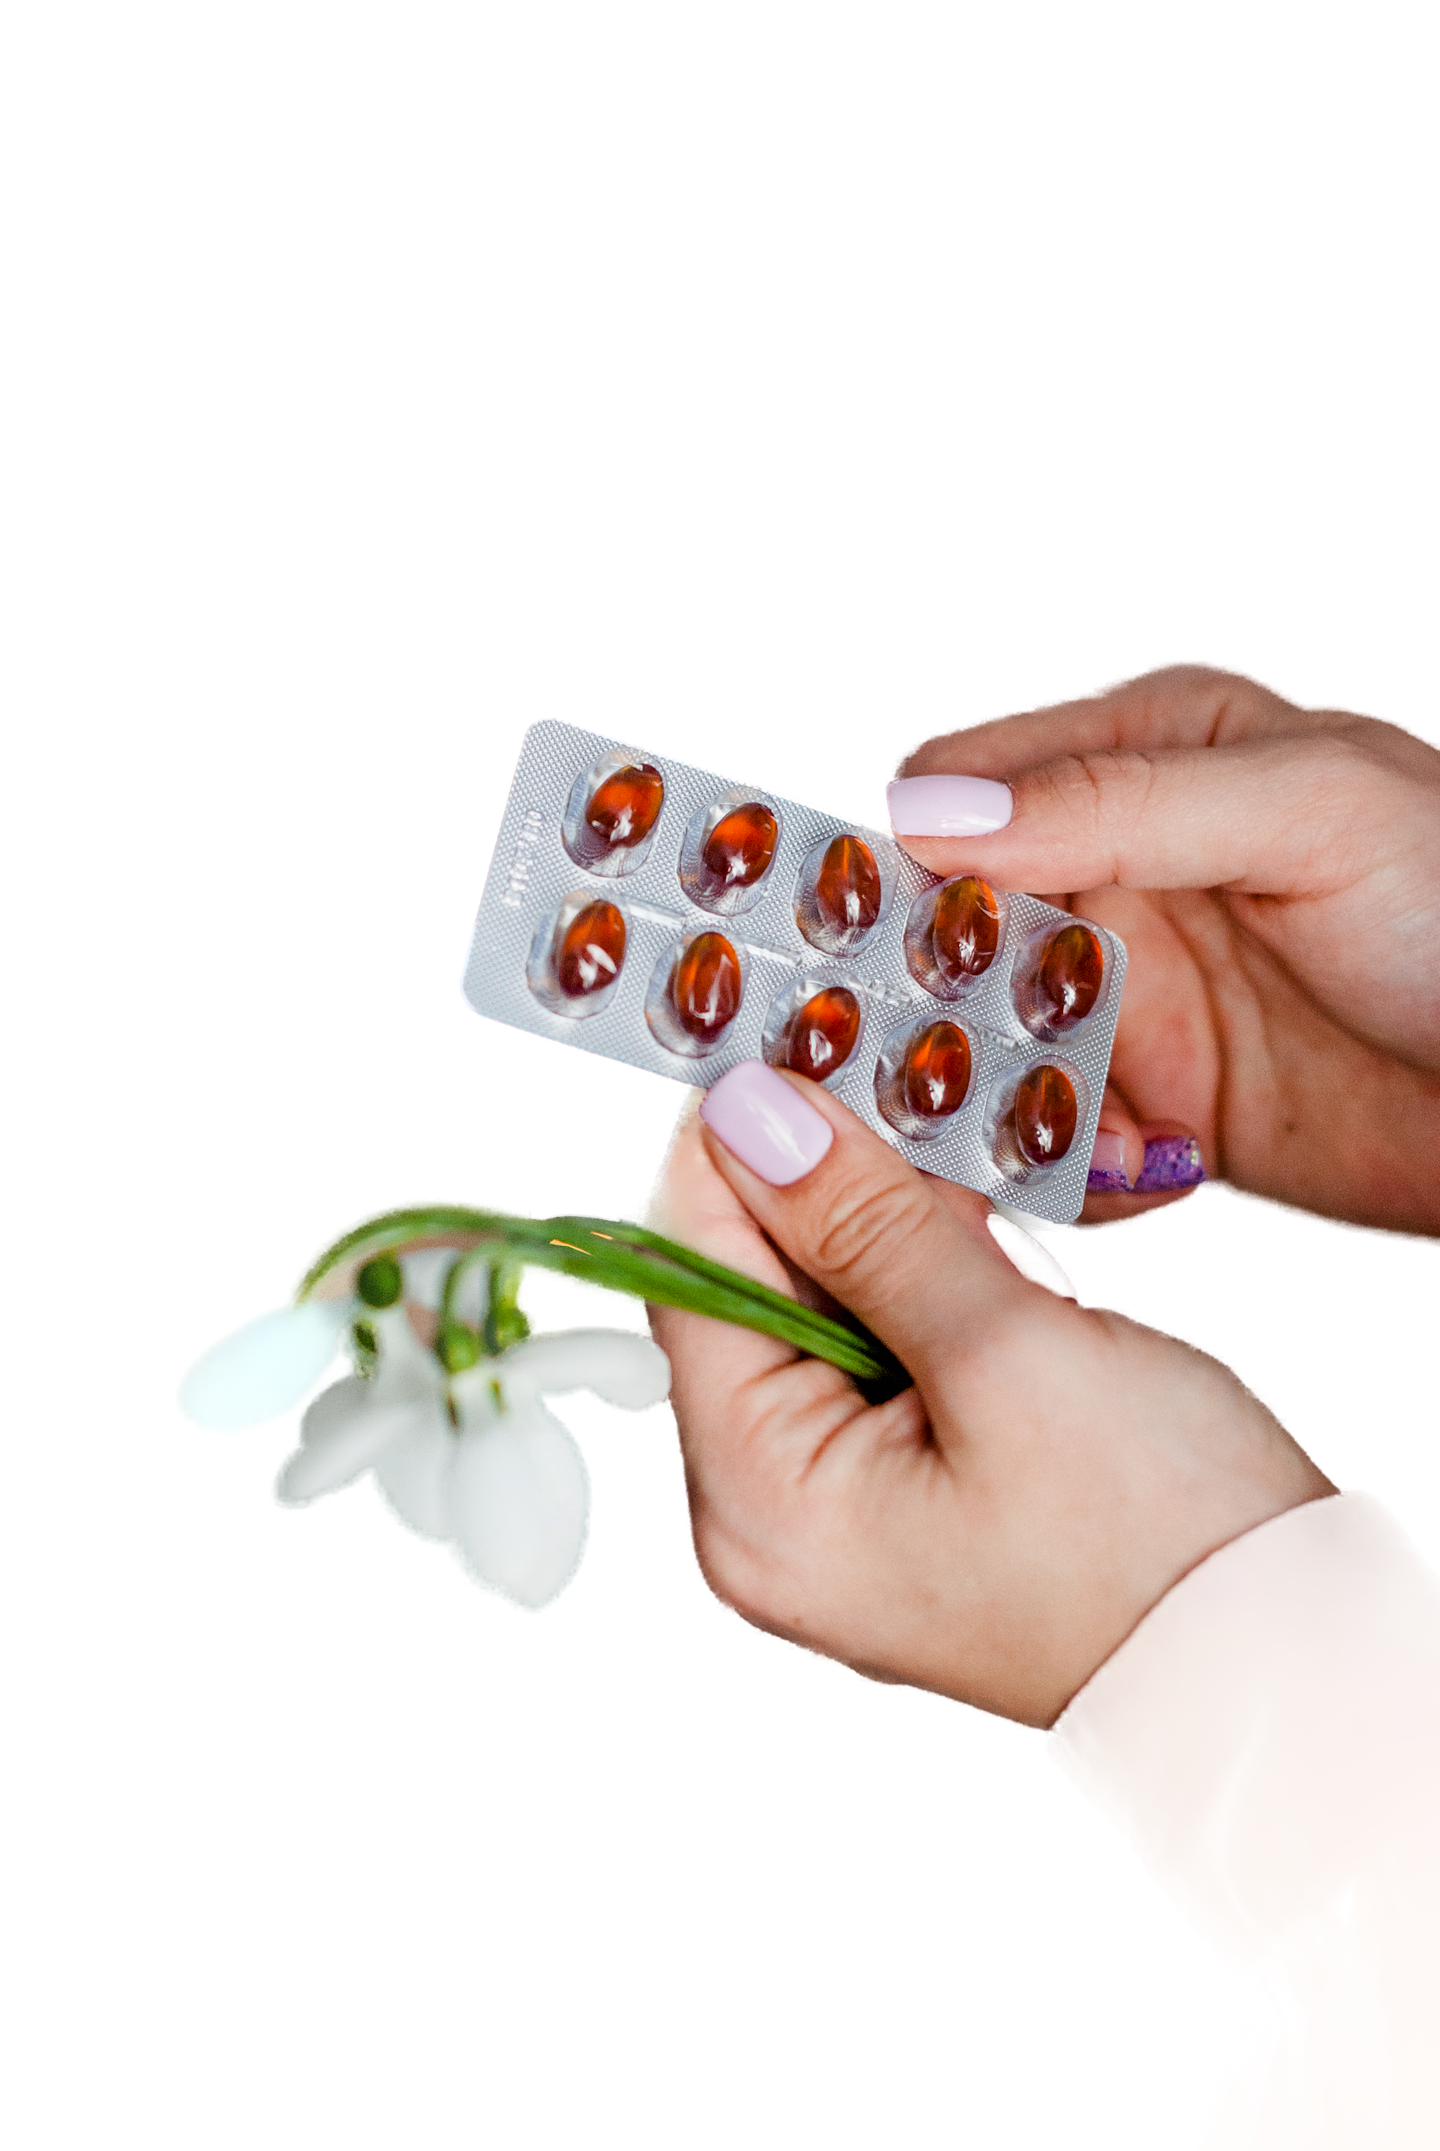
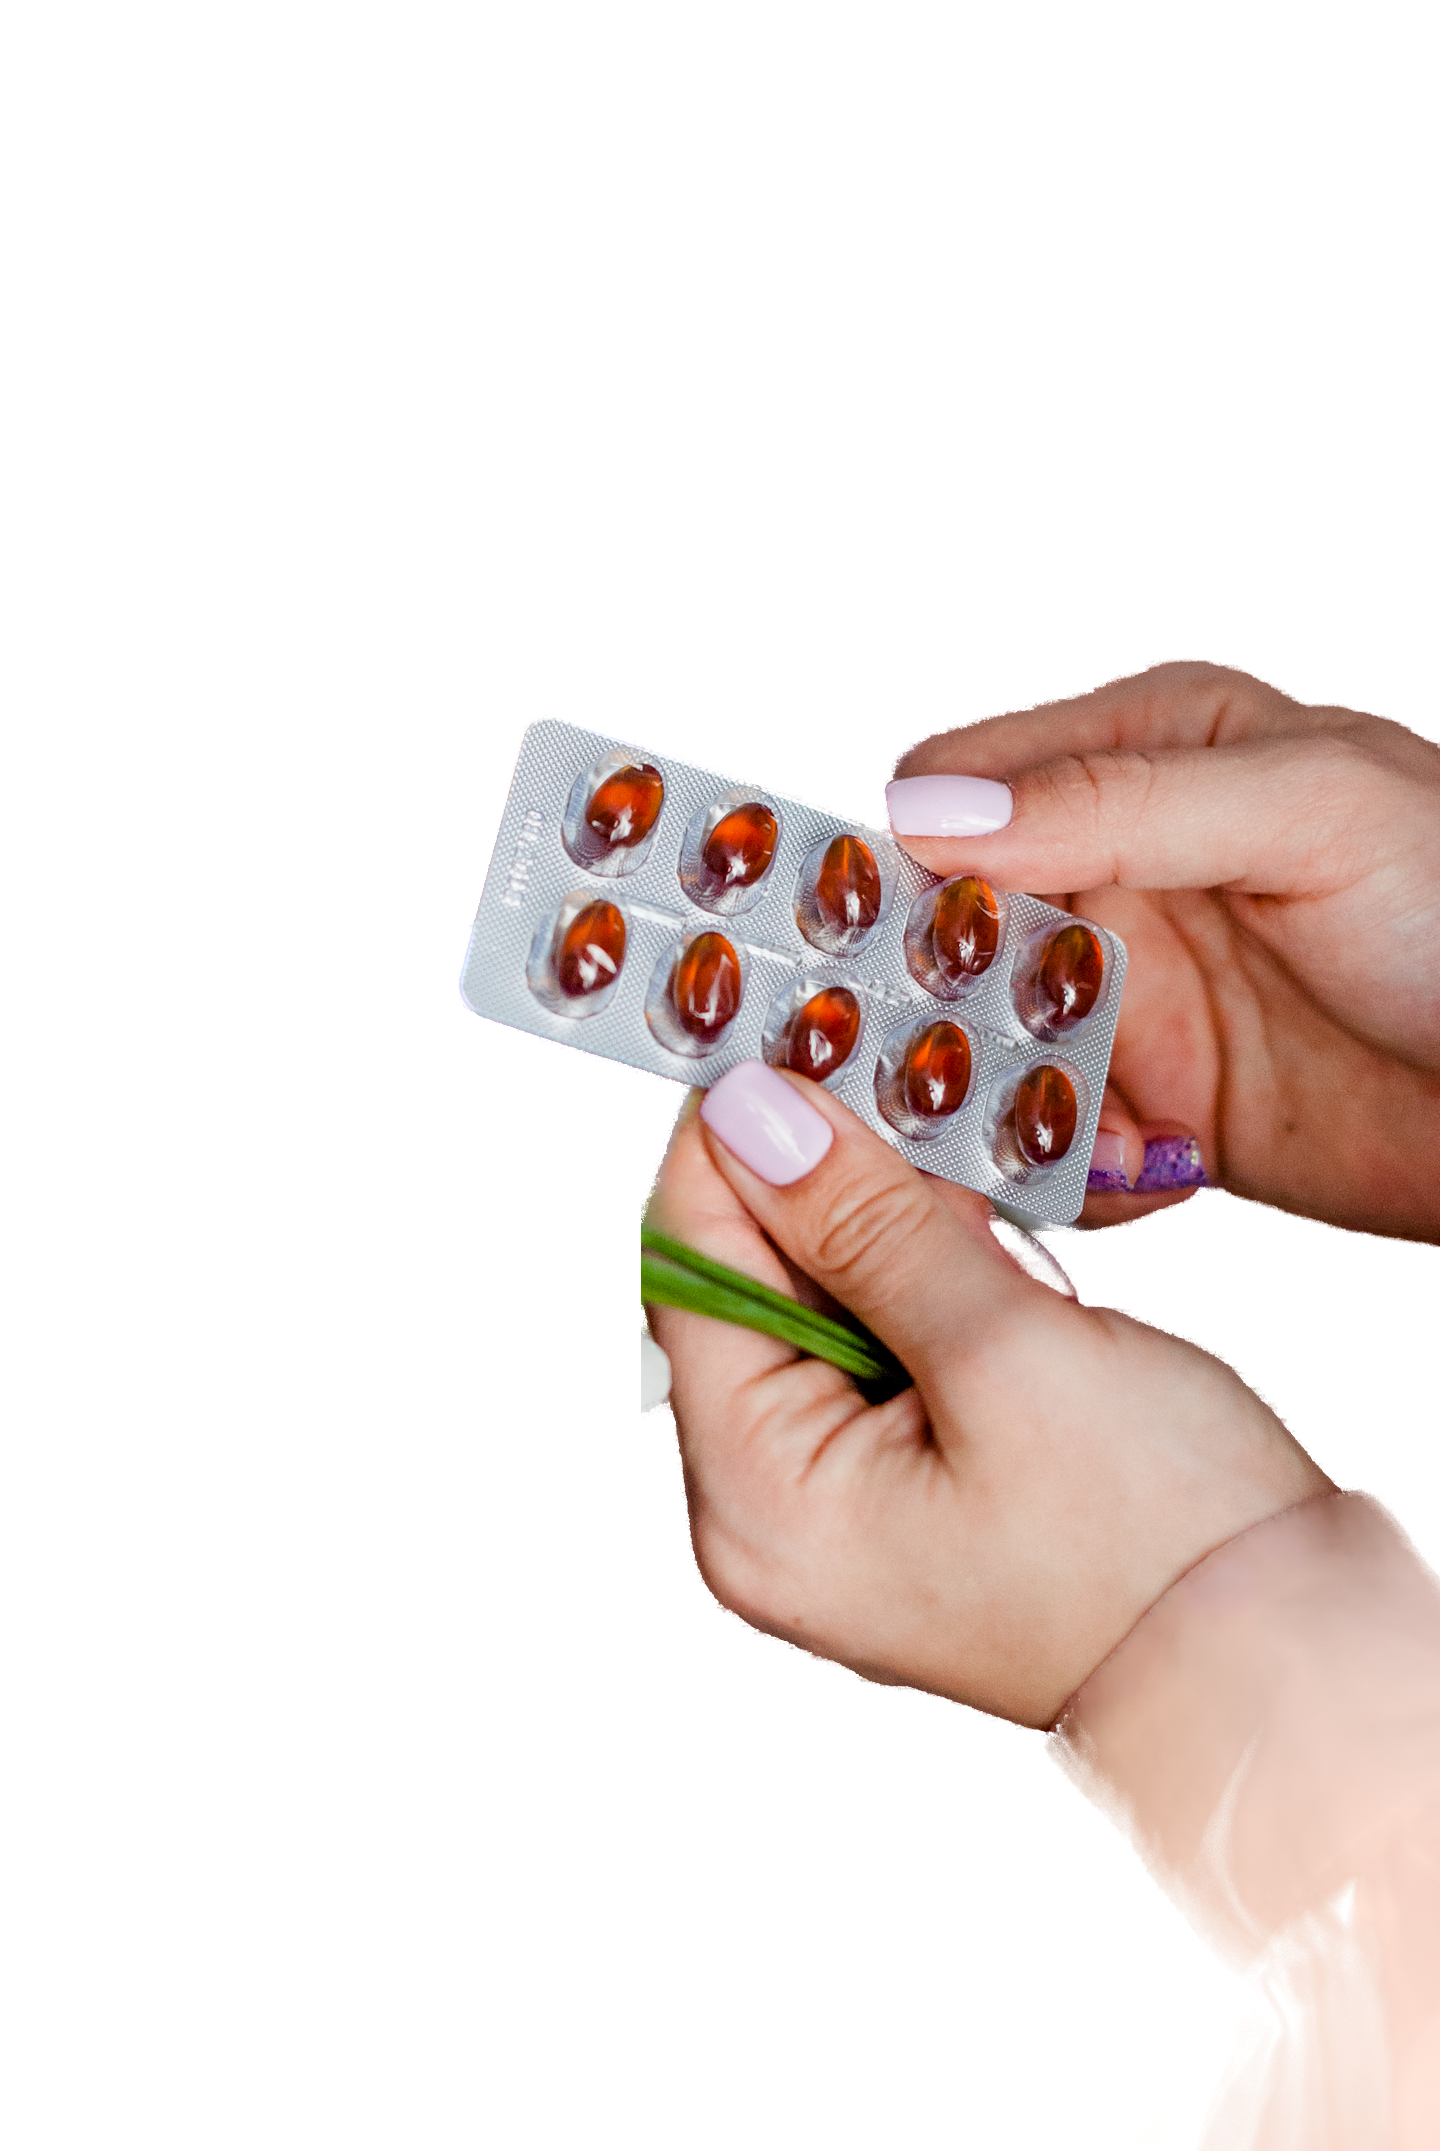
Post: failed medicines (collage, real Unsplash photo); collage torn-band option
Claude-Session: https://claude.ai/code/session_0176i1G6BioHo1JK3tdtFEcZ

diff --git a/poster-engine/src/lab.js b/poster-engine/src/lab.js
@@ -531,12 +531,14 @@ ${stripCss}
 .note{position:absolute;left:62px;top:720px;width:${c.noteW || 340}px;font:italic 400 46px/1.04 'Instrument Serif'}
 .arrow{position:absolute;left:250px;top:850px;width:470px;transform:rotate(-14deg)}
 .foot{position:absolute;left:60px;bottom:56px;width:360px;font:700 14px/1.5 'Space Mono';letter-spacing:1.5px;text-transform:uppercase}
-.foot b{display:inline-block;margin-top:14px;background:#111;color:${P.bg};padding:10px 16px;font-size:17px;letter-spacing:3px}`,
+.foot b{display:inline-block;margin-top:14px;background:#111;color:${P.bg};padding:10px 16px;font-size:17px;letter-spacing:3px}
+${c.band ? `.bandp{position:absolute;left:-30px;right:-30px;top:${c.band.top || 950}px;height:520px;background:#F4F1EA;transform:rotate(-2deg);box-shadow:0 -14px 34px rgba(0,0,0,.22)}
+.note{top:${(c.band.top || 950) + 52}px;width:940px;font-size:54px}.foot{width:940px}` : ''}`,
     `${CRUMPLE()}
 <img class="who" src="${plate(c.plate)}">
 <div class="kick"><span>POSTR FILES · ${esc(c.kicker || d.meta)}<br>${esc(s.date || '')}</span><img src="${wm('ink')}"></div>
 ${strips.map((t, k) => `<div class="strip torn s${k}" data-max="${k === 2 ? 940 : 990}">${esc(t)}</div>`).join('')}
-${c.note ? `<div class="note">${esc(c.note)}</div>` : ''}
+${c.band ? '<div class="bandp torn"></div>' : ''}${c.note ? `<div class="note">${esc(c.note)}</div>` : ''}
 ${c.arrow ? `<svg class="arrow" viewBox="0 0 330 160"><path d="M8 40 C 90 140, 210 150, 300 70" fill="none" stroke="#111" stroke-width="6" stroke-linecap="round"/><path d="M262 58 L304 66 L292 106" fill="none" stroke="#111" stroke-width="6" stroke-linecap="round" stroke-linejoin="round"/></svg>` : ''}
 <div class="foot">SOURCE · ${esc(c.sourceShort || s.source)}${c.ai !== false ? '<br>AI ILLUSTRATION' : ''}<br><b>SWIPE: ${esc(c.cta || 'THE FULL STORY')} →</b></div>${TORN}`);
   },
